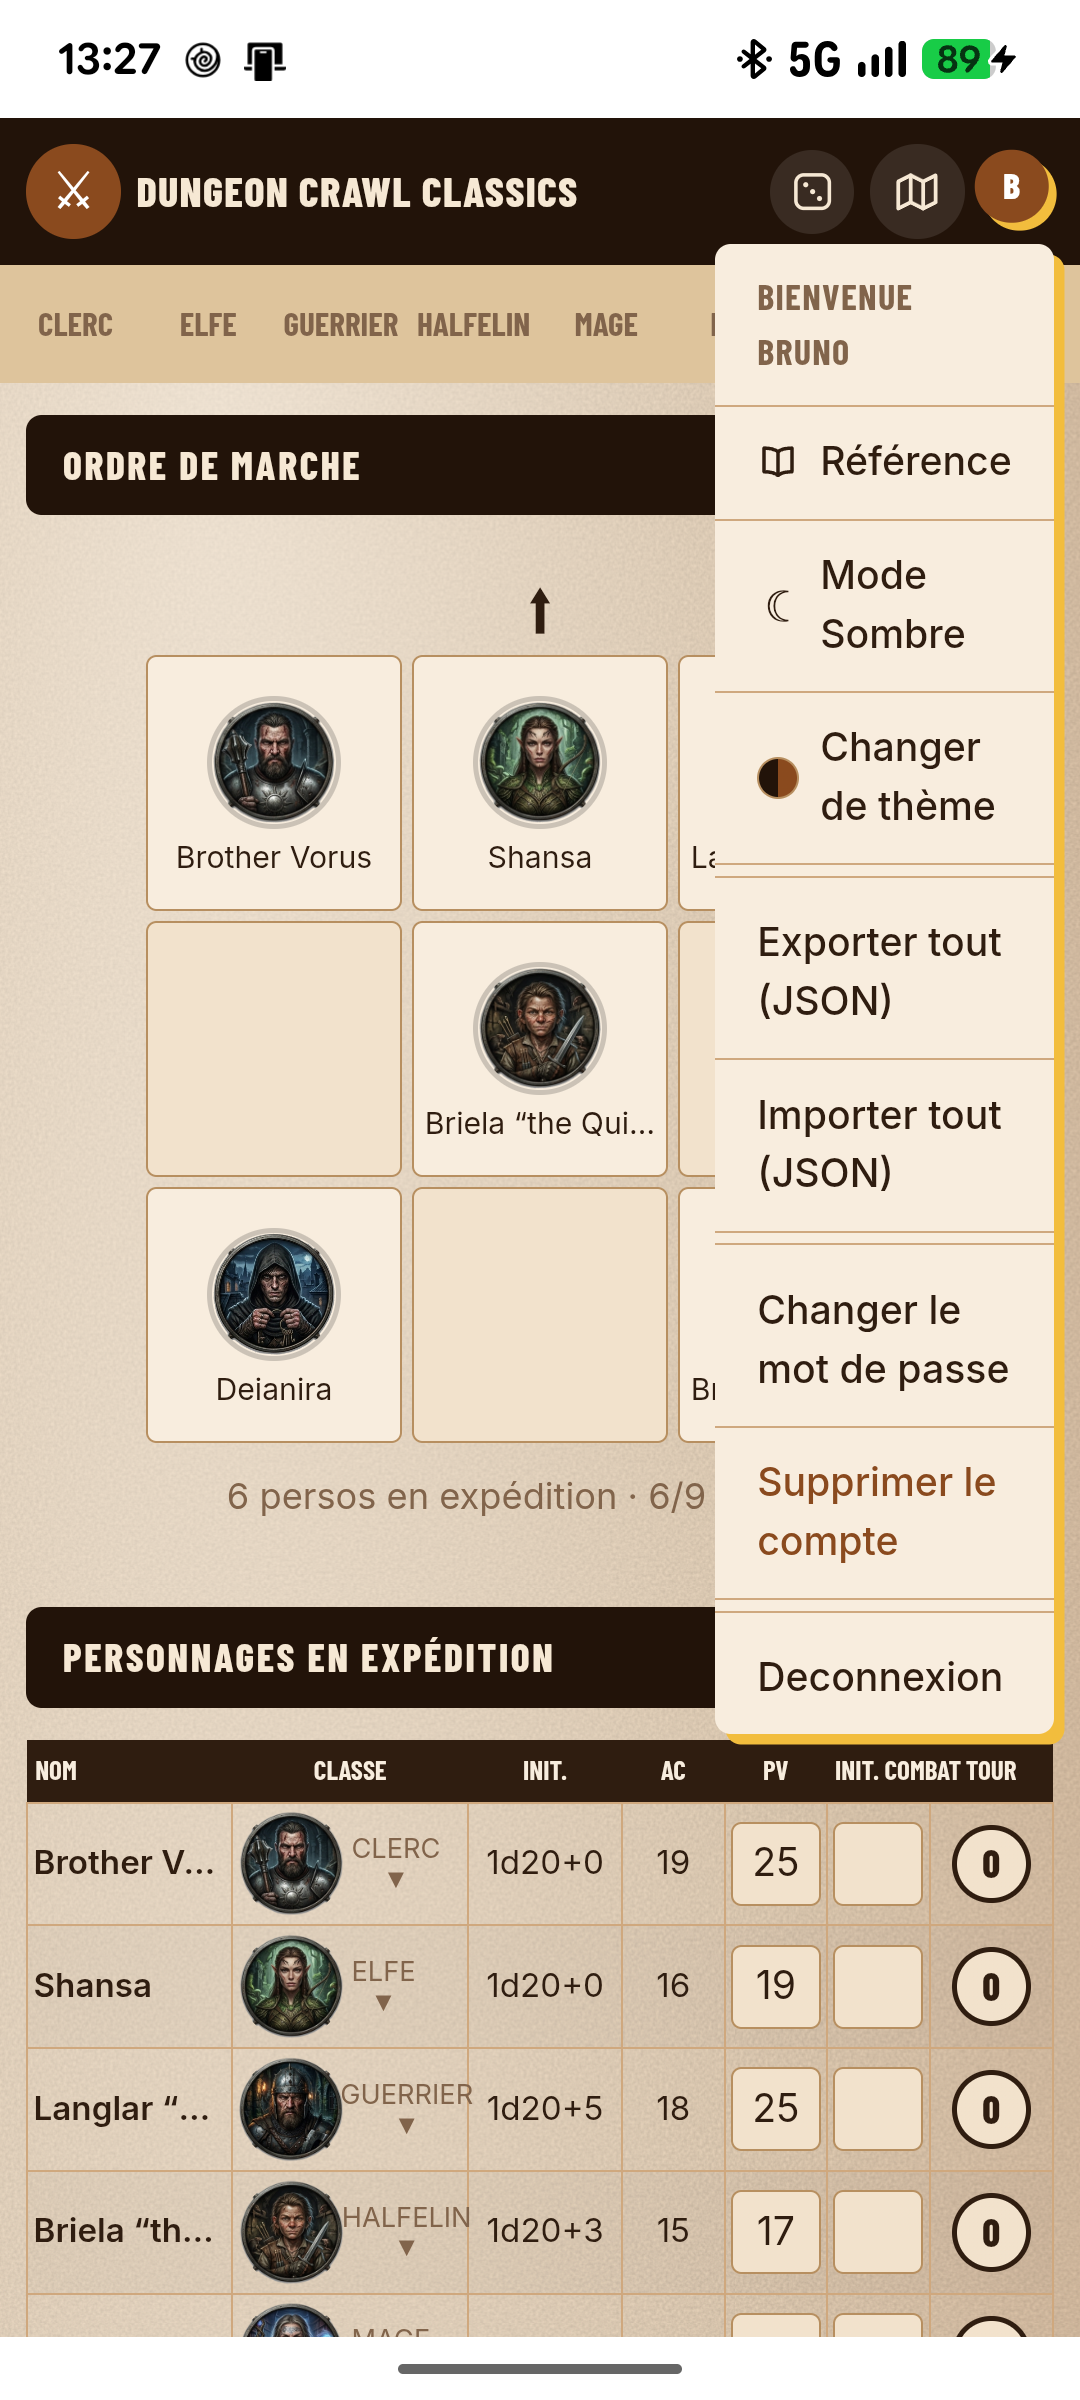
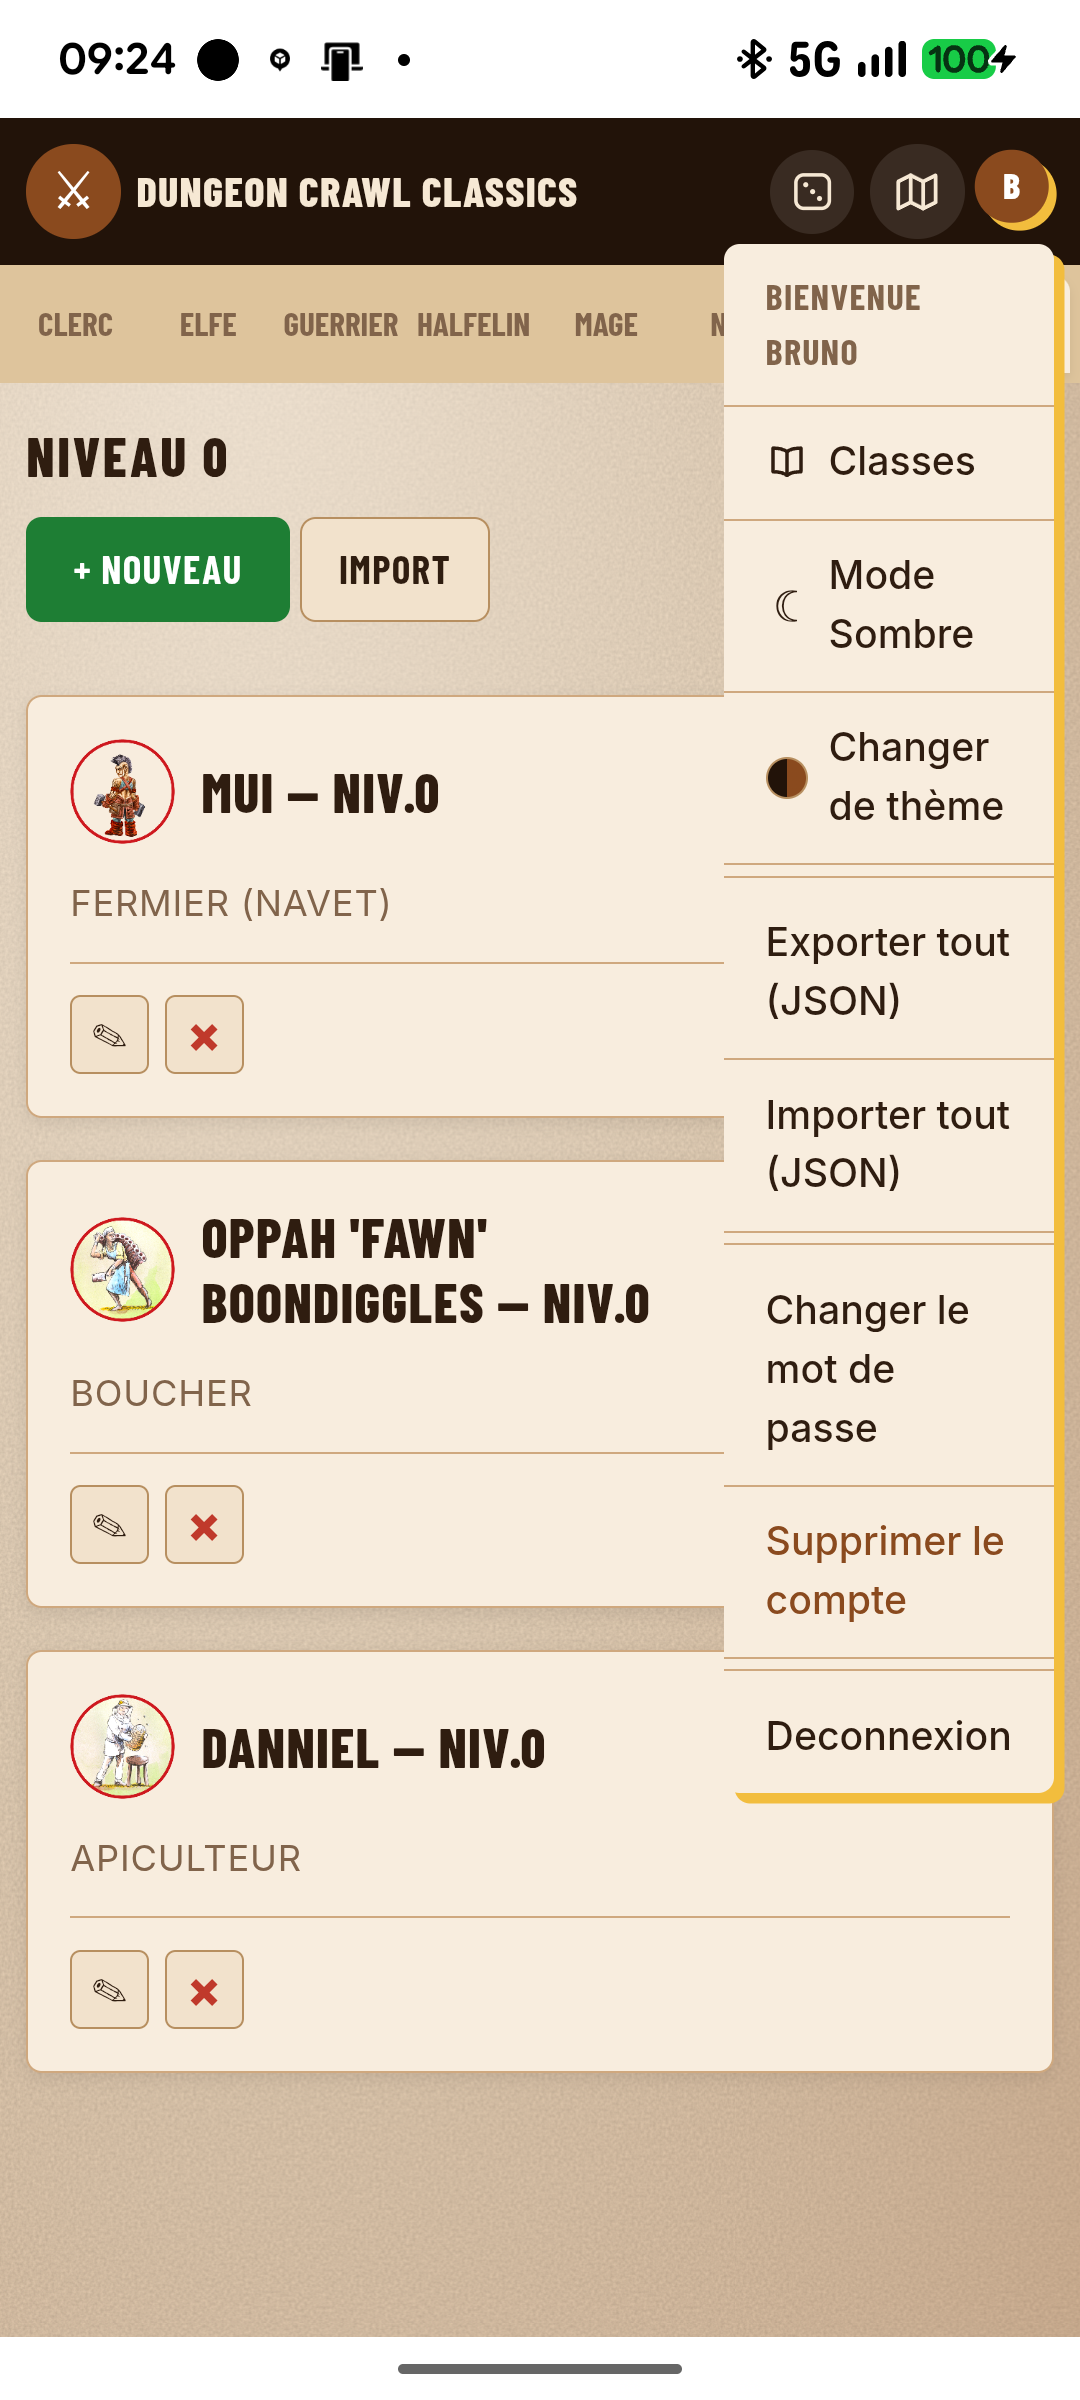
menu utilisateur : entree « Référence » renommée « Classes » (index.html, tests 23, MANUAL §2.3, capture retake sur Pixel, JOURNAL 15/10)

diff --git a/tests/23-dice-tray.test.js b/tests/23-dice-tray.test.js
@@ -53,8 +53,8 @@ module.exports = function suite() {
       'menu : reference + bascule au-dessus du selecteur de couples (R1, V1)');
     const refBtn = menu.querySelector('button[data-action="class-ref"]');
     const togBtn = menu.querySelector('button[data-action="toggle-theme"]');
-    r.ok(!!refBtn && refBtn.textContent === 'Référence',
-      'libelle court « Référence » (tenue sur une ligne, mobile)');
+    r.ok(!!refBtn && refBtn.textContent === 'Classes',
+      'libelle court « Classes » (tenue sur une ligne, mobile)');
     r.ok(!!togBtn && togBtn.textContent === 'Mode Sombre' &&
       togBtn.getAttribute('aria-label') === 'Passer en mode sombre',
       'entree bascule : libelle « Mode Sombre » (theme clair) + aria-label');
@@ -122,7 +122,7 @@ module.exports = function suite() {
   r.ok(/\.theme-toggle,\s*\.ref-toggle\s*\{\s*display:\s*none;/.test(styleCss),
     'style.css : .theme-toggle + .ref-toggle masques en <=600px (V3)');
   r.ok(styleCss.indexOf('button[data-action="class-ref"]::before') !== -1,
-    'style.css : icone livre ::before sur « Référence »');
+    'style.css : icone livre ::before sur « Classes »');
   r.ok(styleCss.indexOf('#user-menu button[data-action="toggle-theme"]::before') !== -1 &&
     styleCss.indexOf('content: "☾"') !== -1,
     'style.css : icone ☾ en ::before sur la bascule (replaces le disque, rev. 4)');

diff --git a/index.html b/index.html
@@ -72,7 +72,7 @@ if (location.pathname.endsWith('/dcc-sheet')) location.replace(location.pathname
             aria-label="Menu utilisateur" aria-expanded="false"></button>
     <div class="user-menu" id="user-menu" hidden>
       <div class="menu-welcome" id="user-welcome"></div>
-      <button data-action="class-ref">Référence</button>
+      <button data-action="class-ref">Classes</button>
       <button data-action="toggle-theme" title="Passer en mode sombre"
               aria-label="Passer en mode sombre">Mode Sombre</button>
       <button data-action="change-theme">Changer de thème</button>

diff --git a/JOURNAL.md b/JOURNAL.md
@@ -1905,3 +1905,12 @@ Module de **dessin de carte plein écran** ouvert par une icône « carte » de 
 - **Build différentiel (étape 4)** : `deploy/dcc-sheet-diff/` depuis v3.3 — **11 modifiés / 28 ajoutés / 0 supprimé** (+ 18 copies hors exclusions).
 - **Artefacts v3.4 (étape 6)** : setup **93 535 174 o** + portable **104 054 239 o** (`build.ps1 -Version 3.4`, verifications bloquantes internes OK), webapp **26 499 004 o** (196 fichiers, assertion 0 token), APK DCC Sheet **25 937 317 o** (`assembleRelease` + `apksigner`, keystore inchange) ; APK conteneur **1.2** reconstruit (26 Mo : 95 tokens = 20 PC + 75 funnel + `dcc-spells-reader`, **jamais joint** a la release). Purge avant rebuild : artefacts `3.4-test`, reliquat `3.1` et `.idsig` orphelins de `android/dist`. **Recette 10/10** sur le package de release (aucun 404, port libere).
 - **Tag + release GitHub (étape 7)** : tag **`v3.4`** pose sur `d138192` et pousse ; release creee avec **4 assets** aux tailles identiques aux fichiers locaux (APK 25 937 317 / portable 104 054 239 / setup 93 535 174 / webapp 26 499 004 octets) ; corps des notes relu via API : **accents propres** (0 U+FFFD, 0 U+251C — ecriture par .NET UTF-8 sans BOM, jamais de redirection `>`) — https://github.com/brunothesatellite/dcc-sheet/releases/tag/v3.4
+
+---
+
+## Date : 15 octobre 2026 — Retouche menu : « Référence » → « Classes »
+
+- L'entrée du menu utilisateur `class-ref` est renommée **« Classes »** (`index.html`) ; le bouton topbar desktop `#btn-aide` (titre « Référence des classes ») et le titre du lecteur (`aide-classes.js`) sont inchangés. Suite `23-dice-tray` mise à jour (libellé exact + messages de contrôles, 80 contrôles) ; MANUAL § 2.3 (tableau, légende) et alt de la capture à jour.
+- **Capture retake** sur le Pixel 7a : APK `3.4-test` reconstruit avec le renommage et réinstallé (`adb install -r`, keystore inchangé) — `captures/menu-mobile-dice.png` affiche désormais « Classes ». Le renommage est **post-release** : il n'est pas dans l'APK officiel v3.4 publié la veille.
+- Tests : **3292/3292 OK** (PHP activé).
+- Note de build : `_build-android.ps1` s'arrête à `exit 0` après signature — la ligne « Installation device » n'est qu'un affichage, l'installation se fait par `adb install -r` manuel. Sous ce PC, le daemon Gradle d'Android Studio (JBR) peut hériter du handle de sortie et prolonger le shell appelant (timeout-artefact du 15/10, l'APK lui-même est bien construit).

diff --git a/MANUAL.md b/MANUAL.md
@@ -89,7 +89,7 @@ Une fois connecté, votre **avatar** (la première lettre de votre pseudo) rempl
 | Action | Effet |
 |---|---|
 | **Bienvenue {pseudo}** | En-tête du menu |
-| **Référence** | Ouvre le document de référence des classes (fiches + Table 1-1) |
+| **Classes** | Ouvre le document de référence des classes (fiches + Table 1-1) |
 | **☾ / ☀** | Bascule le thème sombre/clair : l'icône indique toujours le **mode à atteindre** (§ 10) |
 | **Exporter tout (JSON)** | Télécharge tous vos personnages, vos **notes d'équipe** et votre **ordre de marche** dans un fichier |
 | **Importer tout (JSON)** | Remplace **tous** vos personnages (et vos notes / ordre de marche, si le fichier en contient) par ceux d'un fichier |
@@ -99,9 +99,9 @@ Une fois connecté, votre **avatar** (la première lettre de votre pseudo) rempl
 
 Le menu se referme en cliquant ailleurs ou en appuyant sur **Échap**.
 
-<img src="captures/menu-mobile-dice.png" alt="Menu utilisateur sur mobile : Bienvenue Bruno, Référence, Mode Sombre (icône lune), Changer de thème, puis Exporter / Importer tout" width="320">
+<img src="captures/menu-mobile-dice.png" alt="Menu utilisateur sur mobile : Bienvenue Bruno, Classes (icône livre), Mode Sombre (icône lune), Changer de thème, puis Exporter / Importer tout" width="320">
 
-*Sur mobile (≤ 600 px), le menu regroupe aussi les entrées **Référence** et **Mode Sombre** (icône ☾ / ☀, toujours au mode à atteindre), qui remplacent les boutons masqués de la topbar.*
+*Sur mobile (≤ 600 px), le menu regroupe aussi les entrées **Classes** et **Mode Sombre** (icône ☾ / ☀, toujours au mode à atteindre), qui remplacent les boutons masqués de la topbar.*
 
 ### 2.4 Changer son mot de passe
 
